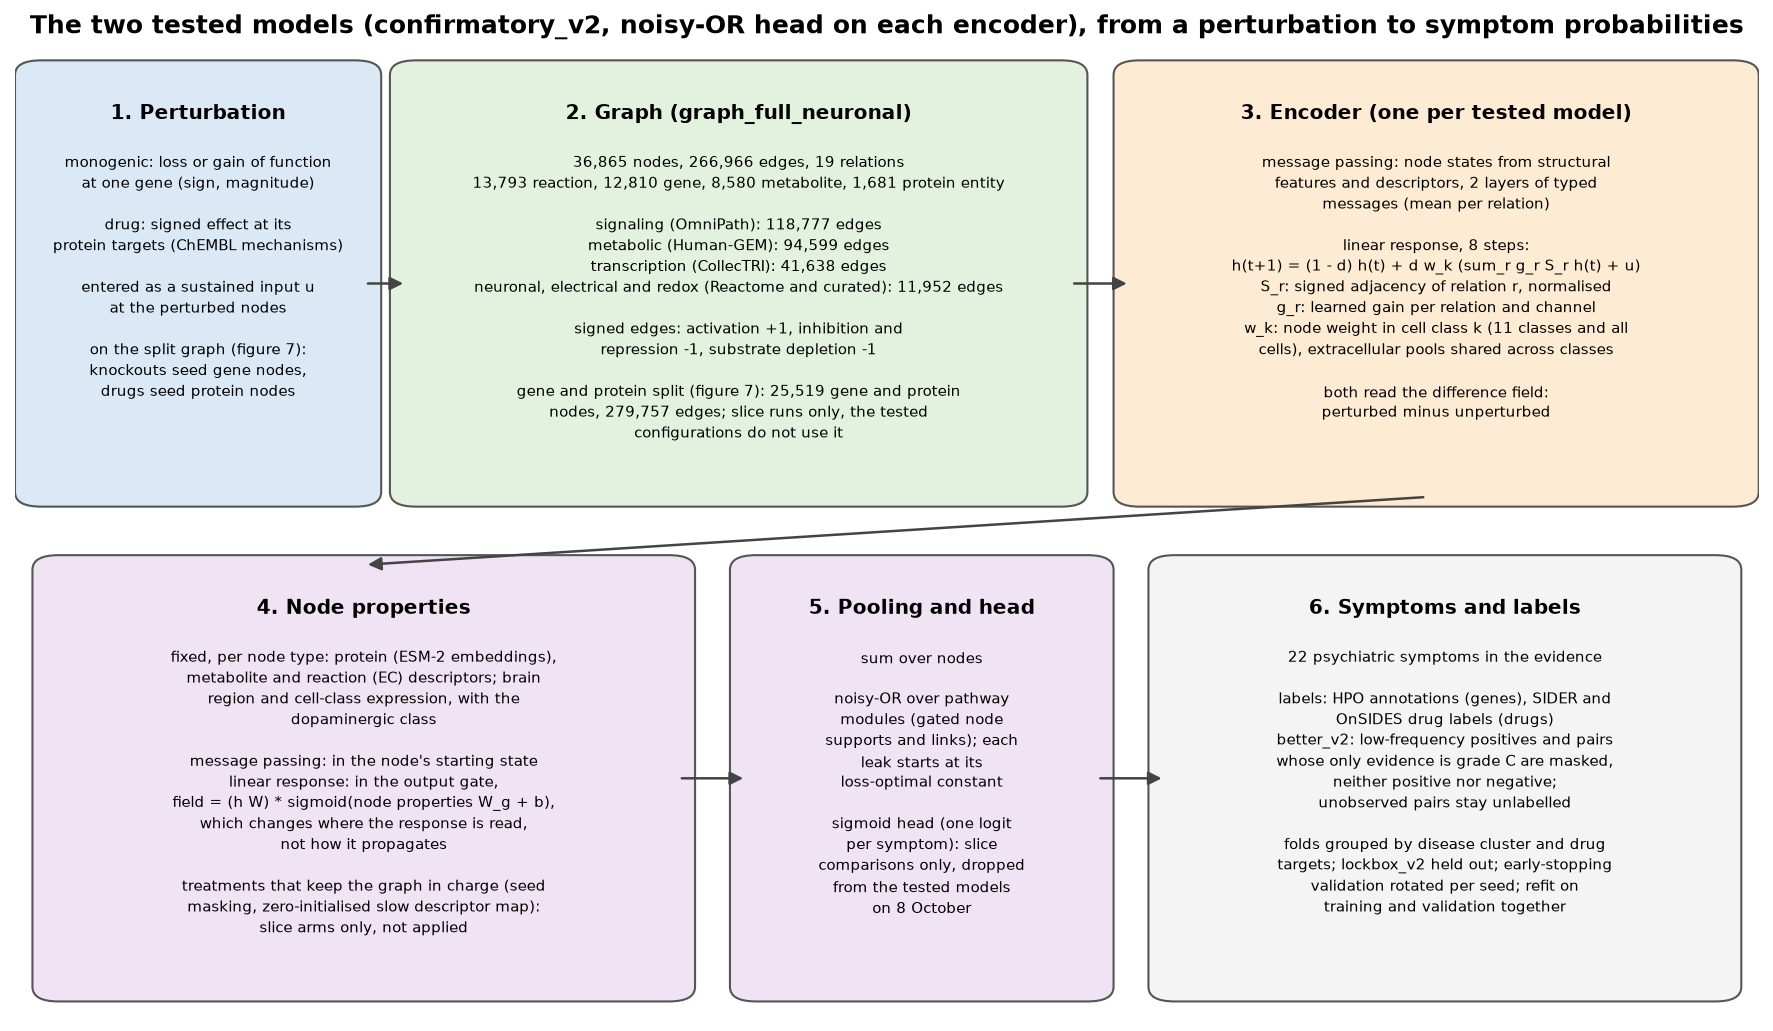
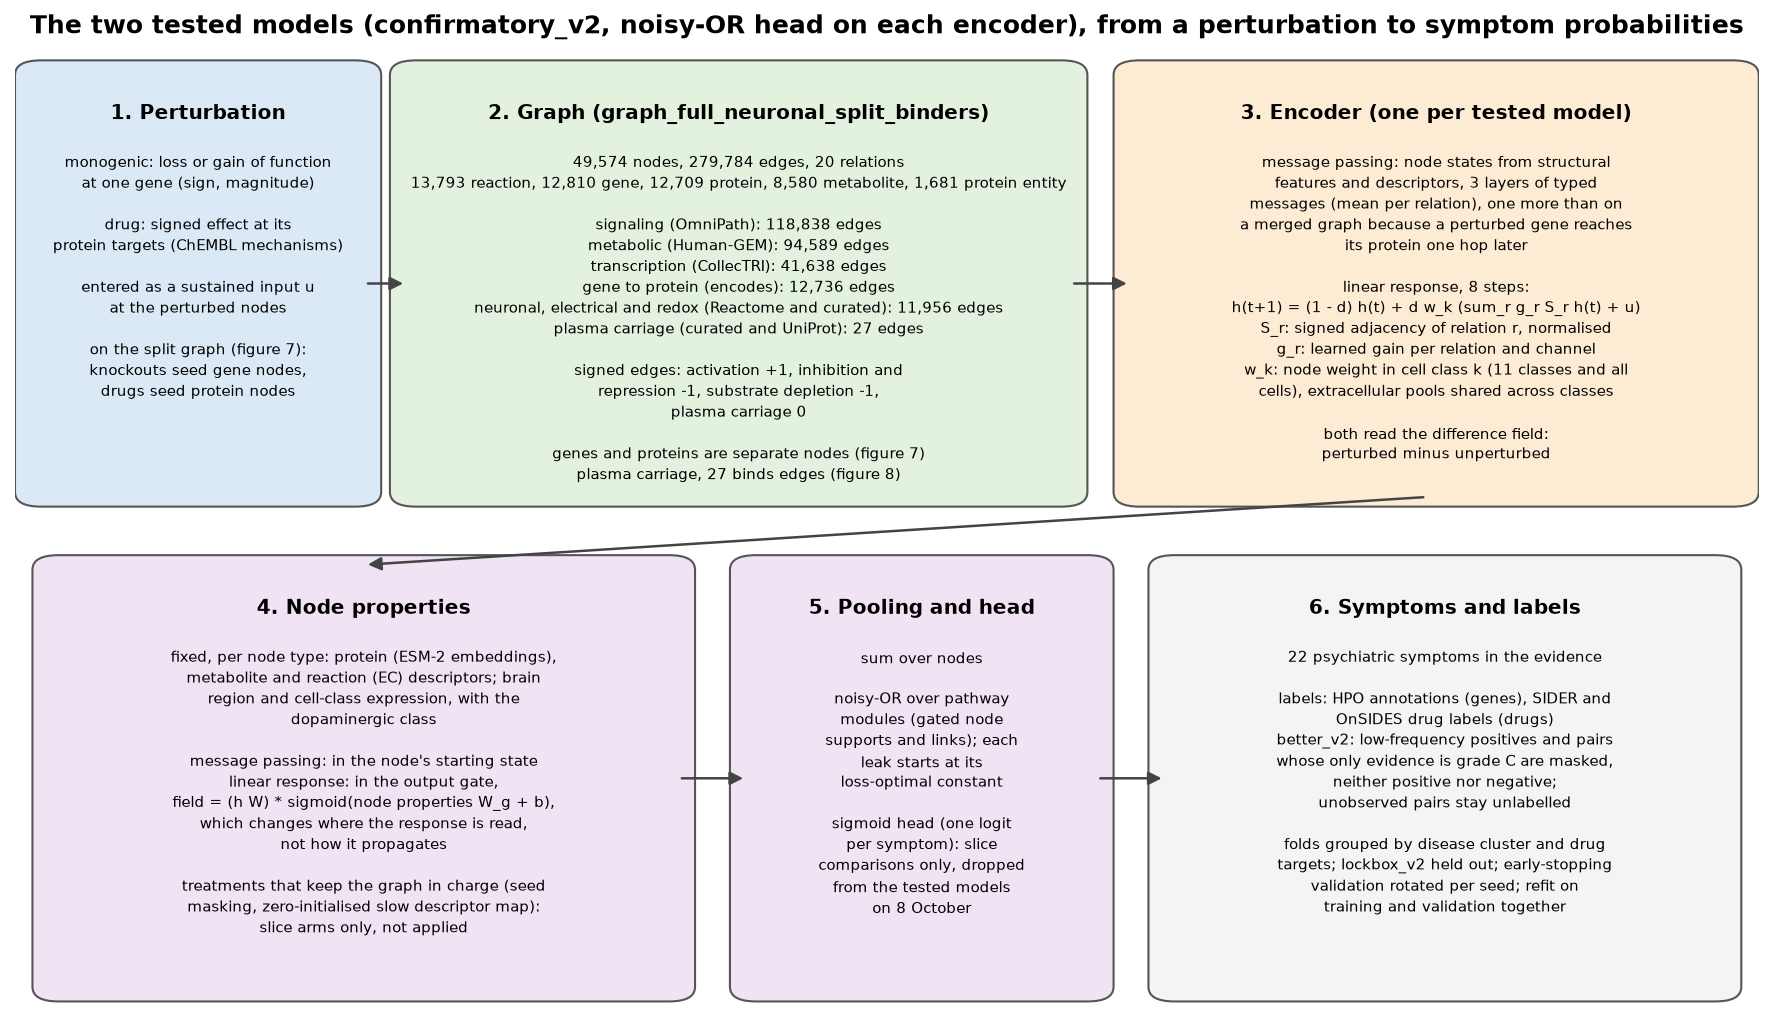
Redraw the explanatory figures on the graph the tested models now read
The user's request: update the explanatory figures with the new graph modifications. Figure 1 is drawn from
graph_full_neuronal_split_binders instead of the merged graph, so its counts are the ones the two tested models see
(49,574 nodes, 279,784 edges), its layer breakdown now separates gene-to-protein and plasma carriage edges, and two
stale claims are gone: that the tested configurations name graph_full_neuronal, and that message passing runs two
layers, when on a split graph it runs three.

New figure 8: the 27 carriage edges, one panel showing how one sits in the graph (the cargo with the most binders,
carriage on the protein node, the knockout reaching it one encodes hop later) and one counting the edges of each
binder with its cargo named. It says plainly why orosomucoid has one edge per gene.

One bug worth naming: selecting carriage edges by the word "plasma" in evidence_source also matched the electrical
edges, whose sources name the plasma membrane ("net charge across the plasma membrane (Reactome)"), which put 404
membrane-potential edges in the carriage panel. The filter now matches the two exact source strings.

Claude-Session: https://claude.ai/code/session_01M6JNfpSxQbjqBt6hD4RjMV

diff --git a/experiments/make_explanatory_figures.py b/experiments/make_explanatory_figures.py
@@ -6,7 +6,8 @@
   4. dopaminergic_class: marker genes in the dopaminergic class against the highest Human Protein Atlas cluster type;
   5. slice_twin_comparisons: the one-change twin comparisons of the slice pilot (runs/twin_comparisons.json);
   6. slice_baselines_and_models: per-fold macro AUPRC of the slice baselines and model configurations;
-  7. gene_protein_split: gene and protein nodes of graph_full_neuronal_split, with its counts.
+  7. gene_protein_split: gene and protein nodes of graph_full_neuronal_split, with its counts;
+  8. plasma_carriage: the binds edges that carry an extracellular cargo metabolite to its plasma binder protein.
 
 Figures whose inputs are missing are skipped with a message. Writes PNG files to docs/figures/. Idempotent.
 
@@ -35,6 +36,13 @@ from mechanistic_pathway_learning.models.linear_response_encoder import LinearRe
 OUTPUT_DIRECTORY = Path("docs/figures")
 FULL_GRAPH_DIRECTORY = Path("data/processed/graph_full_neuronal")
 SPLIT_GRAPH_DIRECTORY = Path("data/processed/graph_full_neuronal_split")
+# the graph the two tested models read: the gene and protein split with the plasma carriage edges
+# (docs/preregistration.md, amendments of 9 October 2026, first and fourth)
+CONFIRMATORY_GRAPH_DIRECTORY = Path("data/processed/graph_full_neuronal_split_binders")
+BINDER_SUMMARY = CONFIRMATORY_GRAPH_DIRECTORY / "plasma_binder_summary.json"
+# the exact evidence_source values of a carriage edge. Matching the word "plasma" instead would also catch the
+# electrical edges, whose sources name the plasma membrane ("net charge across the plasma membrane (Reactome)").
+CARRIAGE_EVIDENCE_SOURCES = ("curated plasma carriage", "UniProt binding site (plasma binder carriage)")
 LABEL_SELECTION_SUMMARY = Path("data/processed/label_selection/better_v2_full_v2.summary.json")
 CELL_CLASS_WEIGHTS = Path("data/processed/cell_class_weights/full_neuronal_cell_class_weights.parquet")
 MINIMUM_POSITIVES_FOR_MACRO = 5
@@ -58,8 +66,10 @@ def graph_layer_counts(graph_directory: Path) -> dict:
     edges = pd.read_parquet(graph_directory / "edges.parquet")
     source = edges.evidence_source.fillna("")
     layer_of_edge = np.select(
-        [source.isin(["Human-GEM", "Human-GEM GPR"]), source.str.startswith("OmniPath"), source == "CollecTRI"],
-        ["metabolic (Human-GEM)", "signaling (OmniPath)", "transcription (CollecTRI)"],
+        [source.isin(["Human-GEM", "Human-GEM GPR"]), source.str.startswith("OmniPath"), source == "CollecTRI",
+         source.isin(CARRIAGE_EVIDENCE_SOURCES), edges.relation_type.eq("encodes")],
+        ["metabolic (Human-GEM)", "signaling (OmniPath)", "transcription (CollecTRI)",
+         "plasma carriage (curated and UniProt)", "gene to protein (encodes)"],
         default="neuronal, electrical and redox (Reactome and curated)")
     return {"nodes": len(nodes), "edges": len(edges), "relations": edges.relation_type.nunique(),
             "node_types": nodes.node_type.value_counts().to_dict(), "edges_by_layer": pd.Series(layer_of_edge).value_counts().to_dict()}
@@ -77,8 +87,8 @@ def draw_arrow(axis, start: tuple[float, float], end: tuple[float, float]) -> No
 
 
 def figure_model_pipeline() -> None:
-    counts = graph_layer_counts(FULL_GRAPH_DIRECTORY)
-    split_summary = json.loads((SPLIT_GRAPH_DIRECTORY / "split_summary.json").read_text())
+    counts = graph_layer_counts(CONFIRMATORY_GRAPH_DIRECTORY)
+    binder_summary = json.loads(BINDER_SUMMARY.read_text())
     label_summary = json.loads(LABEL_SELECTION_SUMMARY.read_text())
     cell_classes = [column for column in pd.read_parquet(CELL_CLASS_WEIGHTS).columns if column != "all_cells"]
     layer_lines = "\n".join(f"{layer}: {number:,} edges" for layer, number in sorted(counts["edges_by_layer"].items(), key=lambda item: -item[1]))
@@ -92,14 +102,13 @@ def figure_model_pipeline() -> None:
              "monogenic: loss or gain of function\nat one gene (sign, magnitude)\n\ndrug: signed effect at its\nprotein targets (ChEMBL mechanisms)\n\n"
              "entered as a sustained input u\nat the perturbed nodes\n\non the split graph (figure 7):\nknockouts seed gene nodes,\ndrugs seed protein nodes",
              BOX_COLOURS["input"])
-    draw_box(axis, 0.415, top_row, 0.38, height, "2. Graph (graph_full_neuronal)",
+    draw_box(axis, 0.415, top_row, 0.38, height, "2. Graph (graph_full_neuronal_split_binders)",
              f"{counts['nodes']:,} nodes, {counts['edges']:,} edges, {counts['relations']} relations\n{node_lines}\n\n{layer_lines}\n\n"
-             "signed edges: activation +1, inhibition and\nrepression -1, substrate depletion -1\n\n"
-             f"gene and protein split (figure 7): {split_summary['gene_nodes'] + split_summary['protein_nodes']:,} gene and protein\n"
-             f"nodes, {split_summary['edges_after']:,} edges; slice runs only, the tested\nconfigurations do not use it",
+             "signed edges: activation +1, inhibition and\nrepression -1, substrate depletion -1,\nplasma carriage 0\n\n"
+             f"genes and proteins are separate nodes (figure 7)\nplasma carriage, {binder_summary['edges_added']} binds edges (figure 8)",
              BOX_COLOURS["graph"])
     draw_box(axis, 0.815, top_row, 0.35, height, "3. Encoder (one per tested model)",
-             "message passing: node states from structural\nfeatures and descriptors, 2 layers of typed\nmessages (mean per relation)\n\n"
+             "message passing: node states from structural\nfeatures and descriptors, 3 layers of typed\nmessages (mean per relation), one more than on\na merged graph because a perturbed gene reaches\nits protein one hop later\n\n"
              "linear response, 8 steps:\nh(t+1) = (1 - d) h(t) + d w_k (sum_r g_r S_r h(t) + u)\n"
              "S_r: signed adjacency of relation r, normalised\ng_r: learned gain per relation and channel\n"
              f"w_k: node weight in cell class k ({len(cell_classes)} classes and all\ncells), extracellular pools shared across classes\n\n"
@@ -399,8 +408,75 @@ def figure_gene_protein_split() -> None:
     save(figure, "gene_protein_split")
 
 
+def carriage_edges_with_names(graph_directory: Path) -> pd.DataFrame:
+    """The plasma carriage edges of a graph, with the display name of the cargo metabolite and of the binder."""
+    nodes = pd.read_parquet(graph_directory / "nodes.parquet")
+    display_name_of_node = nodes.set_index("node_id").display_name
+    gene_symbol_of_node = nodes.set_index("node_id").gene_symbol
+    edges = pd.read_parquet(graph_directory / "edges.parquet")
+    carriage = edges[edges.evidence_source.isin(CARRIAGE_EVIDENCE_SOURCES)].copy()
+    carriage["cargo_name"] = carriage.source_id.map(display_name_of_node)
+    carriage["binder_name"] = carriage.target_id.map(gene_symbol_of_node).fillna(carriage.target_id.map(display_name_of_node))
+    return carriage
+
+
+def figure_plasma_carriage() -> None:
+    summary = json.loads(BINDER_SUMMARY.read_text())
+    carriage = carriage_edges_with_names(CONFIRMATORY_GRAPH_DIRECTORY)
+    binder_of_most_carried_cargo = carriage.groupby("source_id").target_id.nunique().sort_values()
+    worked_cargo_node = binder_of_most_carried_cargo.index[-1]
+    worked_cargo_name = carriage.loc[carriage.source_id == worked_cargo_node, "cargo_name"].iloc[0]
+    worked_binders = sorted(carriage.loc[carriage.source_id == worked_cargo_node, "target_id"])
+    first_binder_symbol = carriage.loc[carriage.target_id == worked_binders[0], "binder_name"].iloc[0]
+
+    cargo_colour, protein_colour, gene_colour, seed_colour = "#e8e2f4", "#e3f1df", "#dbe9f6", "#fdebd3"
+    figure, (left_axis, right_axis) = plt.subplots(1, 2, figsize=(15, 6.2), gridspec_kw={"width_ratios": [1.05, 1.0]})
+    # the axes are placed before the node-link diagram is drawn: its arrows are anchored to the text artists, so a
+    # later tight_layout would move the boxes out from under the arrows and bbox_inches="tight" would then save a
+    # figure wide enough to hold them
+    figure.subplots_adjust(left=0.04, right=0.97, top=0.86, bottom=0.08, wspace=0.18)
+    left_axis.set_xlim(0, 1)
+    left_axis.set_ylim(0, 1)
+    left_axis.axis("off")
+
+    worked_nodes = {"knockout": (0.17, 0.93, "knockout of the binder gene", seed_colour),
+                    "binder_gene": (0.17, 0.74, f"GENE:{first_binder_symbol}\n(brain expression columns)", gene_colour),
+                    # off the row of any binder, so that no arrow runs horizontally under its own label
+                    "cargo": (0.17, 0.22, f"{worked_cargo_node}\n{worked_cargo_name}\n(extracellular)", cargo_colour)}
+    worked_edges = [("knockout", "binder_gene", ""), ("binder_gene", worked_binders[0], "encodes")]
+    for index, binder_node in enumerate(worked_binders):
+        binder_symbol = carriage.loc[carriage.target_id == binder_node, "binder_name"].iloc[0]
+        worked_nodes[binder_node] = (0.62, 0.86 - index * 0.28, f"{binder_node}\n({binder_symbol}, protein descriptors)", protein_colour)
+        worked_edges.append(("cargo", binder_node, "binds, sign 0"))
+    draw_node_link_diagram(left_axis, worked_nodes, worked_edges)
+    left_axis.text(0.5, 0.06, f"One cargo with the most binders in the graph: {worked_cargo_name}. Carriage sits on the protein node, because binding is\n"
+                              "the protein's property; a knockout seeds the gene node and reaches the carriage one encodes hop later, which is what moves\n"
+                              "a binder gene's degree stratum (docs/plasma_binder_confirmatory_effect.md).", ha="center", va="bottom", fontsize=8)
+    left_axis.set_title("How a carriage edge sits in the graph", fontsize=11, fontweight="bold")
+
+    edges_per_binder = carriage.groupby("binder_name").size().sort_values()
+    cargo_per_binder = carriage.groupby("binder_name").cargo_name.apply(lambda names: ", ".join(sorted(set(names))))
+    positions = np.arange(len(edges_per_binder))
+    right_axis.set_xlim(0, float(edges_per_binder.max()) * 3.4)
+    right_axis.set_ylim(-0.8, len(edges_per_binder) - 0.2)
+    right_axis.barh(positions, edges_per_binder.to_numpy(), color="#7a9cc6", height=0.62)
+    right_axis.set_yticks(positions)
+    right_axis.set_yticklabels(edges_per_binder.index, fontsize=9)
+    right_axis.set_xlabel("binds edges")
+    right_axis.set_xticks(np.arange(0, int(edges_per_binder.max()) + 1, 2))
+    for position, binder_name in zip(positions, edges_per_binder.index):
+        right_axis.text(edges_per_binder[binder_name] + 0.25, position, cargo_per_binder[binder_name], va="center", fontsize=6.8, color="#333333")
+    sources = ", ".join(f"{number} {name.replace('_', ' ')}" for name, number in sorted(summary["edges_by_source"].items(), key=lambda item: -item[1]))
+    right_axis.set_title(f"{summary['edges_added']} carriage edges over {len(edges_per_binder)} binders ({sources})", fontsize=11, fontweight="bold")
+    right_axis.spines[["top", "right"]].set_visible(False)
+
+    figure.suptitle("Plasma carriage in the confirmatory graph: an extracellular cargo metabolite binds its carrier protein (relation binds, sign 0)",
+                    fontsize=12, fontweight="bold")
+    save(figure, "plasma_carriage")
+
+
 FIGURES = {
-    "model_pipeline": (figure_model_pipeline, [FULL_GRAPH_DIRECTORY / "edges.parquet", SPLIT_GRAPH_DIRECTORY / "split_summary.json",
+    "model_pipeline": (figure_model_pipeline, [CONFIRMATORY_GRAPH_DIRECTORY / "edges.parquet", BINDER_SUMMARY,
                                                LABEL_SELECTION_SUMMARY, CELL_CLASS_WEIGHTS]),
     "cell_class_channels": (figure_cell_class_channels, []),
     "label_selection": (figure_label_selection, [LABEL_SELECTION_SUMMARY]),
@@ -408,6 +484,7 @@ FIGURES = {
     "slice_twin_comparisons": (figure_slice_twin_comparisons, [TWIN_COMPARISONS]),
     "slice_baselines_and_models": (figure_slice_baselines_and_models, [SLICE_BASELINES, SLICE_AGGREGATE]),
     "gene_protein_split": (figure_gene_protein_split, [SPLIT_GRAPH_DIRECTORY / "split_summary.json", SPLIT_GRAPH_DIRECTORY / "gene_to_protein.parquet"]),
+    "plasma_carriage": (figure_plasma_carriage, [CONFIRMATORY_GRAPH_DIRECTORY / "edges.parquet", BINDER_SUMMARY]),
 }
 
 

diff --git a/docs/figures.md b/docs/figures.md
@@ -1,4 +1,4 @@
-# Explanatory figures (updated 8 October 2026)
+# Explanatory figures (updated 9 October 2026)
 
 Drawn by experiments/make_explanatory_figures.py from the repository's own outputs (graph tables, summaries and run
 results), so each figure can be regenerated after the inputs change. Every result shown is from the monogenic slice,
@@ -12,15 +12,17 @@ reads a second-family (confirmatory_v2) development score or a lockbox output.
 The two tested models of the second family (docs/confirmatory_runbook.md): the noisy-OR head on each of the two
 encoders. The user dropped the sigmoid head on 8 October 2026; it remains in the slice comparisons only. A perturbation
 (a gene's loss or gain of function, or a drug's signed effect at its targets) enters as a sustained input at its nodes
-in graph_full_neuronal. The message-passing encoder runs 2 layers of typed messages from node states built from the
-structural features and descriptors. The linear-response encoder propagates the input for 8 steps over the signed,
+in graph_full_neuronal_split_binders, the graph that separates genes from proteins (figure 7) and carries the plasma
+carriage edges (figure 8), which is what the two tested configurations read (docs/preregistration.md, amendments of
+9 October 2026, first and fourth). The message-passing encoder runs 3 layers of typed messages from node states built
+from the structural features and descriptors, one more than on a merged graph because a perturbed gene node reaches its
+protein one hop later. The linear-response encoder propagates the input for 8 steps over the signed,
 normalised adjacency of each relation, with a learned gain per relation and channel and one channel per cell class
 (11 classes and all cells); extracellular pools are shared across classes. Both read the difference field (perturbed
 minus unperturbed). A sum over nodes feeds a noisy-OR over pathway modules whose leaks start at their loss-optimal
 constants. Labels follow better_v2 (figure 3), folds are grouped by disease cluster and drug targets, lockbox_v2 is held
 out, the early-stopping validation set rotates with the seed and each model is refitted on training and validation
-together. Node and edge counts are computed from the graph tables when the figure is drawn. The gene and protein split
-(figure 7) is built and under test on the slice; the tested configurations still name graph_full_neuronal.
+together. Node and edge counts are computed from the graph tables when the figure is drawn.
 
 ## 2. Cell-class channels
 
@@ -96,3 +98,19 @@ by several genes (H3-3A and H3-3B for H3.3) get one shared node, so a knockout o
 Knockouts seed gene nodes, drugs seed protein nodes and transcription edges end at genes. Gene nodes carry the brain
 expression columns and protein nodes the protein descriptors. Counts are read from split_summary.json when the figure
 is drawn.
+
+## 8. Plasma carriage
+
+![plasma carriage](figures/plasma_carriage.png)
+
+The 27 `binds` edges of graph_full_neuronal_split_binders (docs/plasma_binder_graph.md), which carry an extracellular
+cargo metabolite to the plasma protein that binds it: 19 cargo metabolites over 11 binders, sign 0, from the curated
+carriage table (docs/curated_plasma_carriage.csv, each row with a PMID, a DOI and a quoted sentence) and from UniProt
+binding-site features. The carriage sits on the protein node, because binding is the protein's property, so no
+perturbation's own seed node is touched; a knockout of a binder gene reaches the carriage one `encodes` hop later,
+which is why three binder genes that are perturbations change strata degree and two of them, both development rows,
+move degree quintile (docs/plasma_binder_confirmatory_effect.md). The left panel takes the cargo with the most binders
+in the graph; the right panel counts the edges of each binder and names its cargo. Orosomucoid (ORM1, ORM2) gets one
+edge each, progesterone, and not because the rest was missed: its cargo is basic drugs, which this graph has no node
+for, so it enters through the fraction unbound of stage 2 (docs/plasma_protein_binding.md) rather than through these
+edges.
